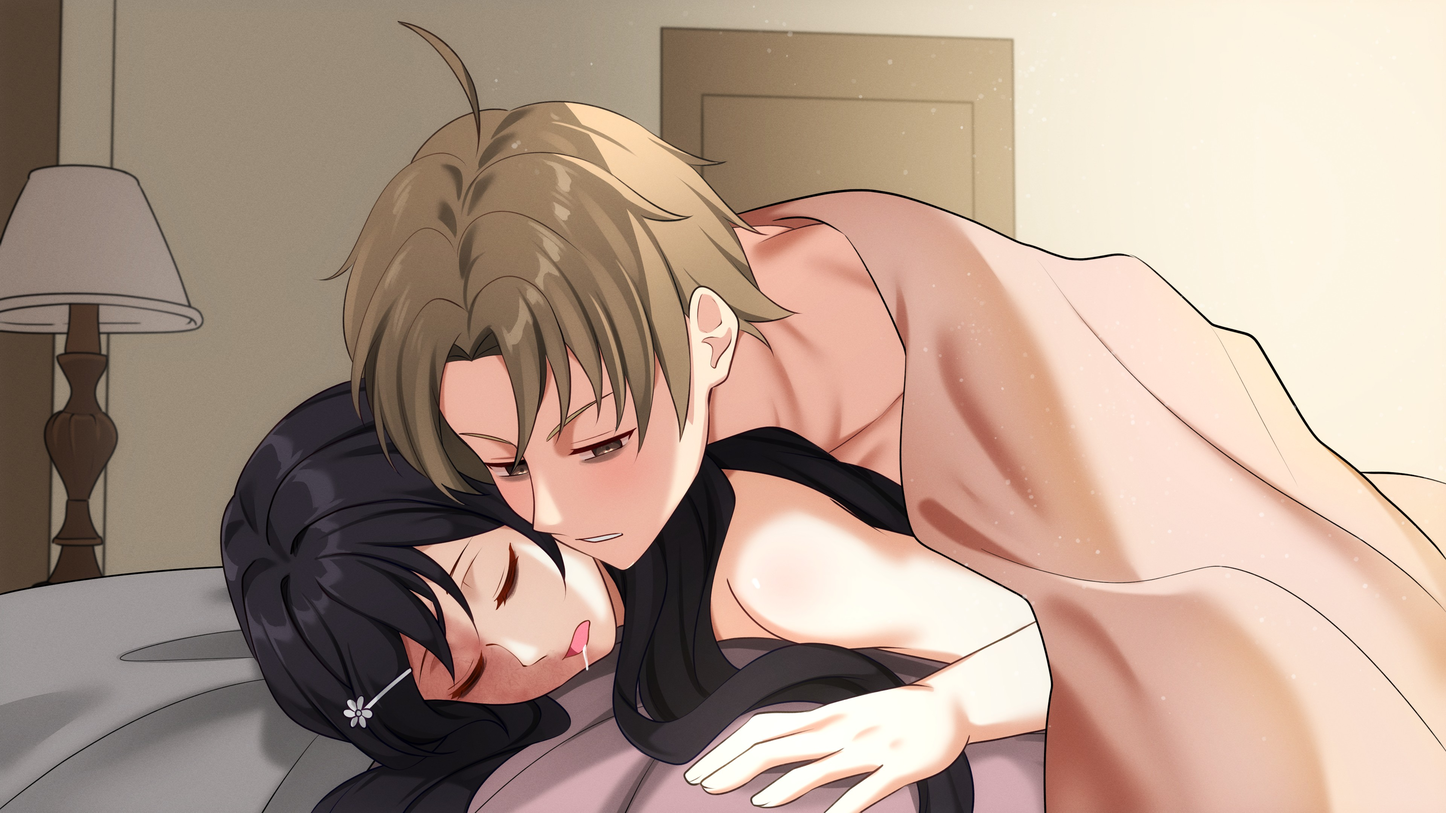
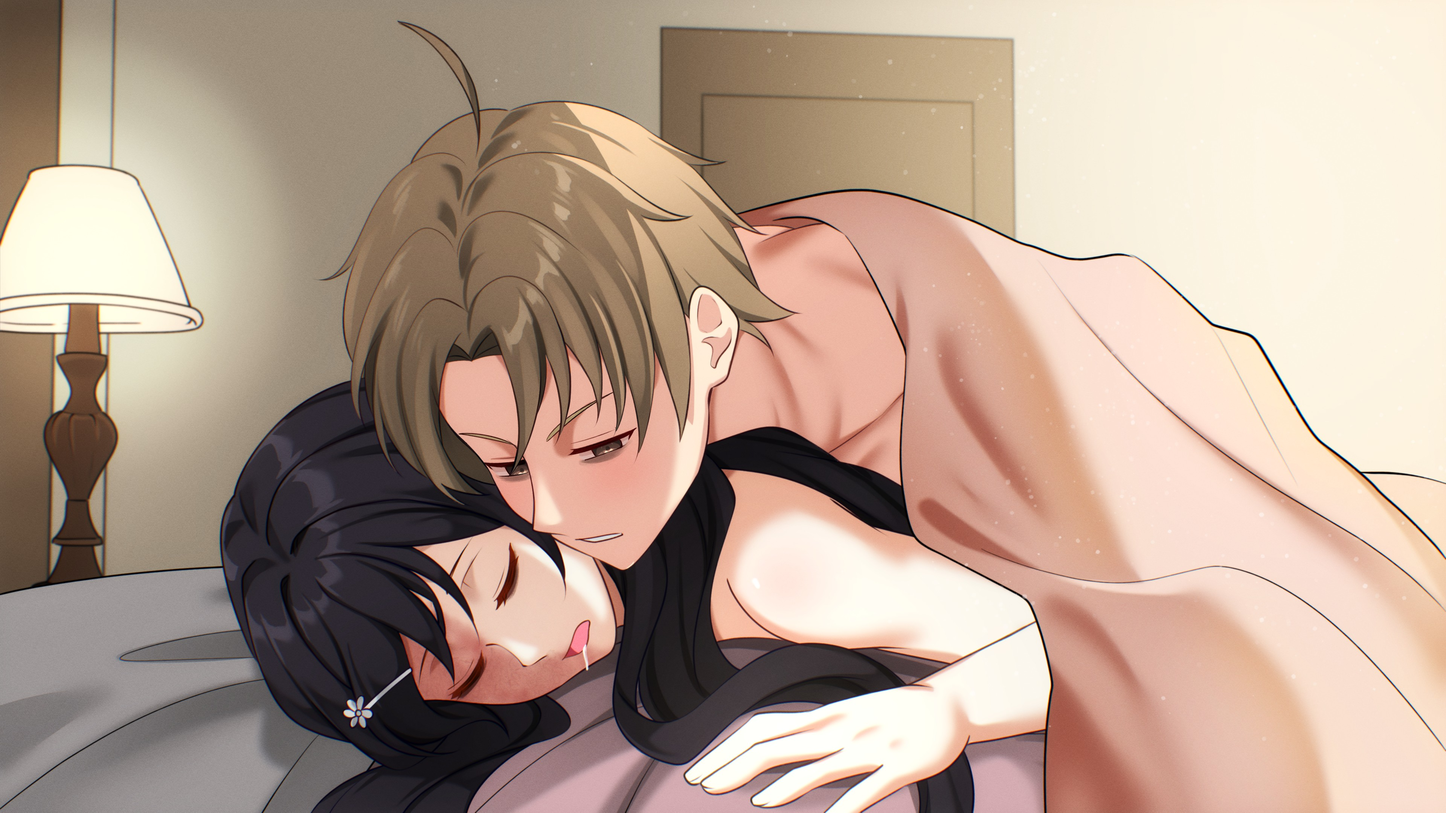
Fix visual inconsistency with one of the Tipsy Fun CGs

diff --git a/scripts/shimgx.py b/scripts/shimgx.py
@@ -315,7 +315,7 @@ IMAGES: list[tuple[str, str, list[ImageTransformation]]] = [
     ("@Event Art/Tipsy Fun/2_closedeyesscene_edit2.png",    "event/tipsyfun/tipsyfun_doggystyle_closed.jpg"),
     ("@Event Art/Tipsy Fun/3.1_scene_fix.png",              "event/tipsyfun/tipsyfun_collapse_climax.jpg"),
     ("@Event Art/Tipsy Fun/3.2_v2night_fix.png",            "event/tipsyfun/tipsyfun_collapse_climaxclosed.jpg"),
-    ("@Event Art/Tipsy Fun/3.2_scene.png",                  "event/tipsyfun/tipsyfun_collapse_morning.jpg"),
+    ("@Event Art/Tipsy Fun/3.2_scene_fix.png",              "event/tipsyfun/tipsyfun_collapse_morning.jpg"),
     ("@Event Art/Tipsy Fun/3.2_v2morning_fix.png",          "event/tipsyfun/tipsyfun_collapse_morningclosed.jpg"),
     ("@Event Art/Tipsy Fun/3.2_v2morning_fix.png",          "event/tipsyfun/tipsyfun_collapse_morningclosed_blur.jpg", [blur(40)]),
     # chapter 25
